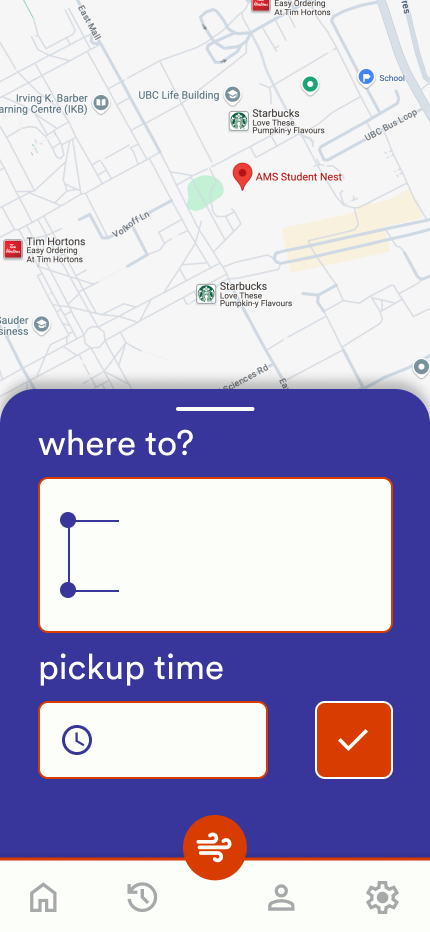
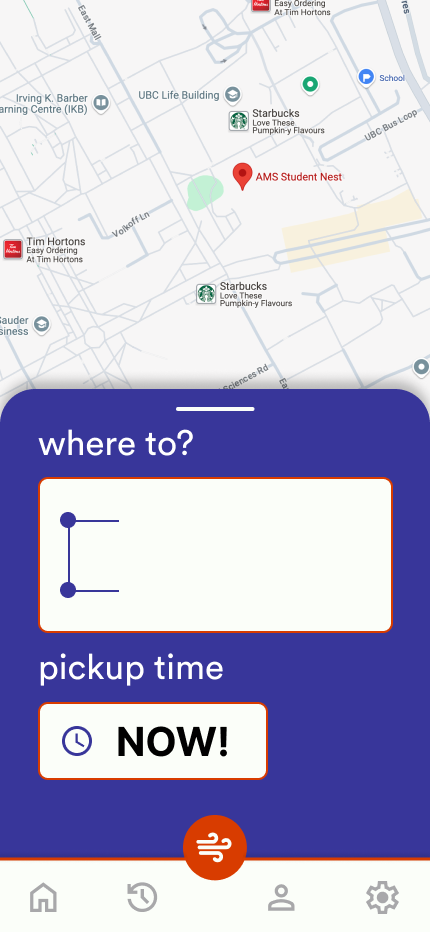
working on ride

diff --git a/frontend/app/ride/page.tsx b/frontend/app/ride/page.tsx
@@ -32,11 +32,27 @@ export default function RidePage() {
     }
   };
 
+  const handleCheckButtonClick = () => {
+    setCurrentView('mode');
+  };
+
   return (
     <div className="relative w-[393px] h-[852px]">
       <Image
-        src={currentView === 'home' ? "/assets/home.png" : "/assets/location.png"}
-        alt={currentView === 'home' ? "Home" : "Location"}
+        src={
+          currentView === 'home'
+            ? "/assets/home.png"
+            : currentView === 'location'
+            ? "/assets/location.png"
+            : "/assets/mode.png"
+        }
+        alt={
+          currentView === 'home'
+            ? "Home"
+            : currentView === 'location'
+            ? "Location"
+            : "Mode"
+        }
         layout="fill"
         objectFit="cover"
         priority
@@ -70,16 +86,23 @@ export default function RidePage() {
         <>
           <div className="absolute top-[53%] left-[55%] transform -translate-x-1/2 flex flex-col items-center space-y-4 z-10">
             <BlueTextbox
+              placeholder="current location"
+              onChange={(value) => setSecondDestination(value)}
+            />
+            <BlueTextbox
               givenText={destination}
               onChange={(value) => setDestination(value)}
             />
-            <BlueTextbox
-              placeholder="enter pickup location"
-              onChange={(value) => setSecondDestination(value)}
-            />
           </div>
-          <div className="absolute bottom-20 left-[55%] transform -translate-x-1/2 text-black text-6xl font-bold z-20">
-            NOW!
+          <div className="absolute bottom-[16.5%] right-[10%] z-10">
+            <button onClick={handleCheckButtonClick}>
+              <Image
+                src="/assets/checkbutton.png"
+                alt="Check Button"
+                width={70}
+                height={70}
+              />
+            </button>
           </div>
         </>
       )}
